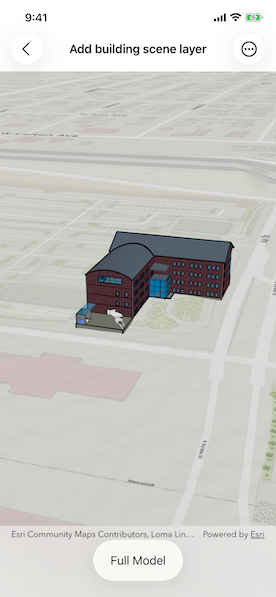
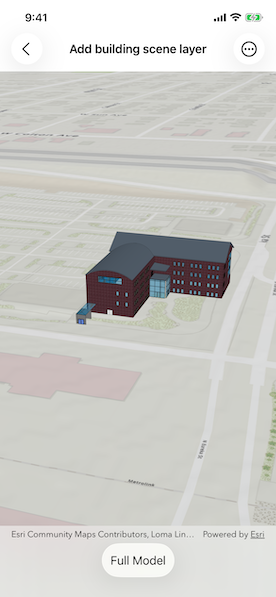
Update BSL data

Changed region(s): [[0.2609, 0.392, 0.8406, 0.5729], [0.3188, 0.9045, 0.6667, 0.995]]

diff --git a/Shared/Samples/Add building scene layer/AddBuildingSceneLayerView.swift b/Shared/Samples/Add building scene layer/AddBuildingSceneLayerView.swift
@@ -53,7 +53,7 @@ struct AddBuildingSceneLayerView: View {
         LocalSceneView(scene: scene, camera: $camera)
             .task {
                 let buildingSceneLayer = BuildingSceneLayer(
-                    url: URL(string: "https://www.arcgis.com/home/item.html?id=e989757f7dbc460eae592eefa4562e07")!
+                    url: URL(string: "https://www.arcgis.com/home/item.html?id=669f6279c579486eb4a0acc7eb59d7ca")!
                 )
                 
                 // Sets the altitude offset of the building scene layer.
